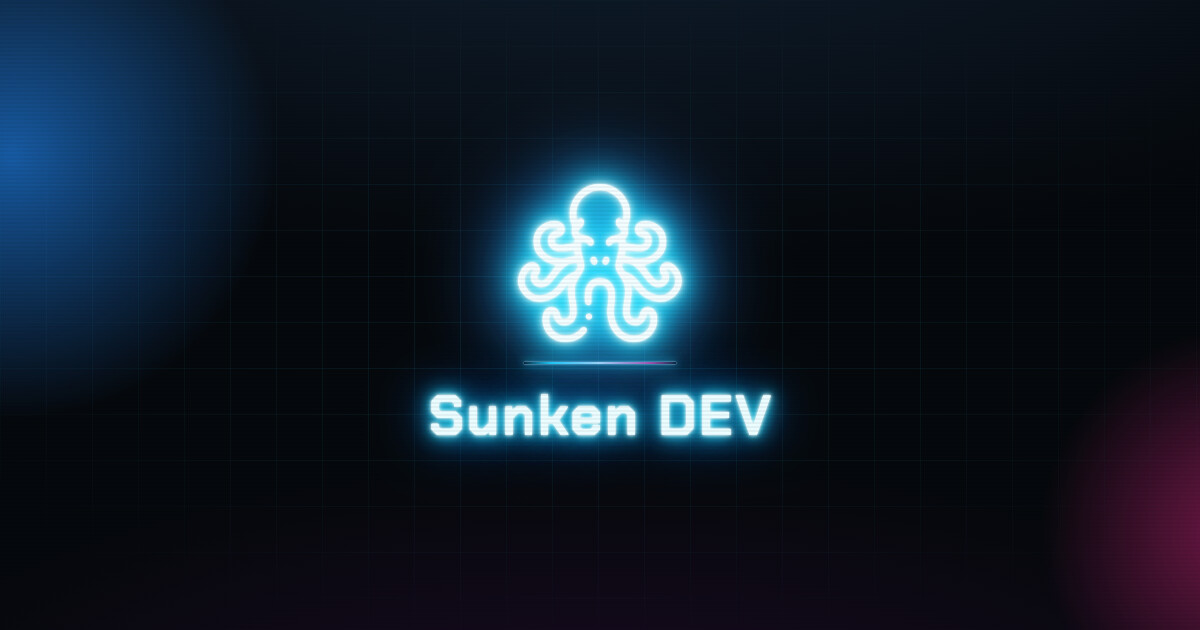
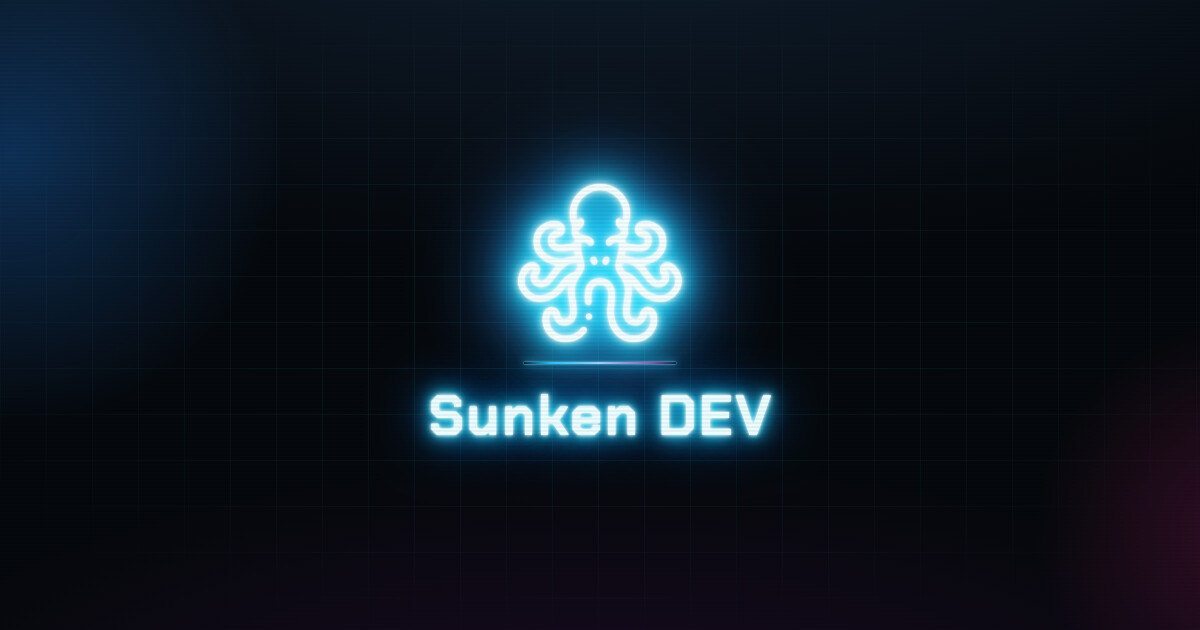
Soften the corner glow, controls and pointer effect
- Drop the caustic pools to roughly half strength so the corners read as
  depth rather than colour
- Replace the pointer glow with a sonar sweep that brightens the grid itself
  under the cursor
- Mute the controls at rest, keeping the cyan inversion for hover and focus

Changed region(s): [[0.0, 0.0, 0.1542, 0.5429], [0.925, 0.6635, 1.0, 1.0]]

diff --git a/index.html b/index.html
@@ -66,6 +66,9 @@
 
       /* Beveled plating: top-left and bottom-right corners cut at 45 degrees.
          Resolved against each element's own --cut. */
+      --grid-line: #22e3ff14;
+      --grid-line-hot: #22e3ff7a;
+
       --cut: 9px;
       --chamfer: polygon(var(--cut) 0, 100% 0, 100% calc(100% - var(--cut)),
           calc(100% - var(--cut)) 100%, 0 100%, 0 var(--cut));
@@ -123,7 +126,7 @@
       height: 46vmax;
       top: 4%;
       left: 2%;
-      background: radial-gradient(circle, color-mix(in oklab, var(--glow) 62%, transparent) 0%, transparent 68%);
+      background: radial-gradient(circle, color-mix(in oklab, var(--glow) 30%, transparent) 0%, transparent 70%);
       animation: drift-a 22s ease-in-out infinite alternate;
     }
 
@@ -132,7 +135,7 @@
       height: 36vmax;
       bottom: 4%;
       right: 2%;
-      background: radial-gradient(circle, color-mix(in oklab, var(--magenta) 46%, transparent) 0%, transparent 68%);
+      background: radial-gradient(circle, color-mix(in oklab, var(--magenta) 19%, transparent) 0%, transparent 70%);
       animation: drift-b 28s ease-in-out infinite alternate;
     }
 
@@ -156,8 +159,8 @@
       z-index: 1;
       pointer-events: none;
       background-image:
-        linear-gradient(to right, #22e3ff14 1px, transparent 1px),
-        linear-gradient(to bottom, #22e3ff14 1px, transparent 1px);
+        linear-gradient(to right, var(--grid-line) 1px, transparent 1px),
+        linear-gradient(to bottom, var(--grid-line) 1px, transparent 1px);
       background-size: 46px 46px;
       -webkit-mask-image: radial-gradient(ellipse 75% 60% at 50% 50%, #000 15%, transparent 78%);
       mask-image: radial-gradient(ellipse 75% 60% at 50% 50%, #000 15%, transparent 78%);
@@ -171,25 +174,37 @@
       }
     }
 
-    /* A submersible lamp trailing the pointer, lighting the grid as it passes.
+    /* Sonar: the grid itself energises where the pointer sweeps. The mask lives
+       on the static wrapper so it stays locked to the cursor while the inner
+       layer keeps panning in step with the grid below it.
        Only on real pointers; touch has nothing to follow. */
-    .lamp {
+    .sonar {
       position: fixed;
       inset: 0;
       z-index: 2;
       pointer-events: none;
       opacity: 0;
-      transition: opacity .7s ease;
-      mix-blend-mode: screen;
-      background: radial-gradient(10rem 10rem at var(--mx, 50%) var(--my, 50%),
-          color-mix(in oklab, var(--cyan) 70%, transparent) 0%,
-          color-mix(in oklab, var(--cyan) 38%, transparent) 24%,
-          color-mix(in oklab, var(--glow) 18%, transparent) 50%,
-          transparent 74%);
+      transition: opacity .45s ease;
+      -webkit-mask-image: radial-gradient(6.5rem 6.5rem at var(--mx, 50%) var(--my, 50%),
+          #000 0%, #000 18%, transparent 72%);
+      mask-image: radial-gradient(6.5rem 6.5rem at var(--mx, 50%) var(--my, 50%),
+          #000 0%, #000 18%, transparent 72%);
+    }
+
+    .sonar::before {
+      content: "";
+      position: absolute;
+      inset: -46px;
+      background-image:
+        linear-gradient(to right, var(--grid-line-hot) 1px, transparent 1px),
+        linear-gradient(to bottom, var(--grid-line-hot) 1px, transparent 1px);
+      background-size: 46px 46px;
+      will-change: transform;
+      animation: grid-pan 18s linear infinite;
     }
 
     @media (hover: hover) and (pointer: fine) {
-      body.lamp-on .lamp {
+      body.sonar-on .sonar {
         opacity: 1;
       }
     }
@@ -389,13 +404,13 @@
       isolation: isolate;
       border: 0;
       clip-path: var(--chamfer);
-      background: var(--cyan);
-      color: var(--cyan);
+      background: #ffffff2b;
+      color: var(--muted);
       font: 500 .75rem/1 var(--font-mono);
       letter-spacing: .14em;
       text-transform: uppercase;
       cursor: pointer;
-      transition: color .22s ease;
+      transition: color .22s ease, background .22s ease;
     }
 
     .btn::before {
@@ -410,6 +425,7 @@
 
     .btn:hover,
     .btn:focus-visible {
+      background: var(--cyan);
       color: #04080c;
     }
 
@@ -556,7 +572,7 @@
 <body>
   <div class="caustics"></div>
   <div class="grid"></div>
-  <div class="lamp"></div>
+  <div class="sonar"></div>
 
   <main id="container">
     <svg id="logo" xmlns="http://www.w3.org/2000/svg" viewBox="0 0 512 512" role="img" aria-label="Sunken DEV kraken logo">
@@ -687,18 +703,18 @@
       if (event.target === dialog) dialog.close();
     });
 
-    // The lamp eases toward the pointer rather than snapping, so it reads as a
-    // light being carried through water.
+    // The sweep eases toward the pointer rather than snapping, so the grid
+    // lights up with a trailing lag instead of tracking rigidly.
     if (matchMedia('(hover: hover) and (pointer: fine)').matches) {
-      const lamp = document.querySelector('.lamp');
+      const sonar = document.querySelector('.sonar');
       let targetX = innerWidth / 2, targetY = innerHeight / 2;
       let x = targetX, y = targetY, frame = 0;
 
       const step = () => {
         x += (targetX - x) * 0.12;
         y += (targetY - y) * 0.12;
-        lamp.style.setProperty('--mx', x + 'px');
-        lamp.style.setProperty('--my', y + 'px');
+        sonar.style.setProperty('--mx', x + 'px');
+        sonar.style.setProperty('--my', y + 'px');
         frame = (Math.abs(targetX - x) > 0.5 || Math.abs(targetY - y) > 0.5)
           ? requestAnimationFrame(step)
           : 0;
@@ -707,14 +723,14 @@
       addEventListener('pointermove', (event) => {
         targetX = event.clientX;
         targetY = event.clientY;
-        document.body.classList.add('lamp-on');
+        document.body.classList.add('sonar-on');
         if (!frame) frame = requestAnimationFrame(step);
       }, { passive: true });
 
       // pointerleave does not bubble, so it has to be bound to the element that
       // spans the viewport rather than to window.
       document.documentElement.addEventListener('pointerleave', () => {
-        document.body.classList.remove('lamp-on');
+        document.body.classList.remove('sonar-on');
       });
     }
   </script>
